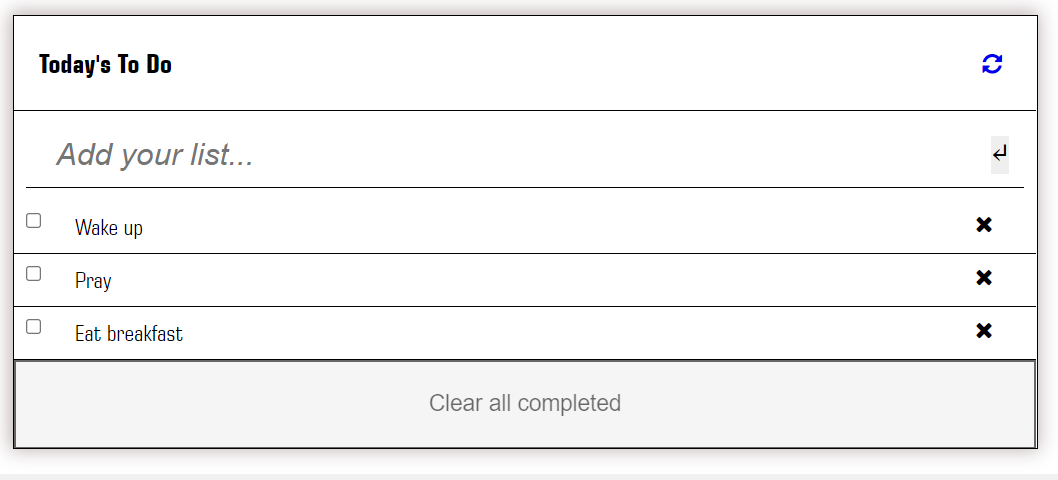
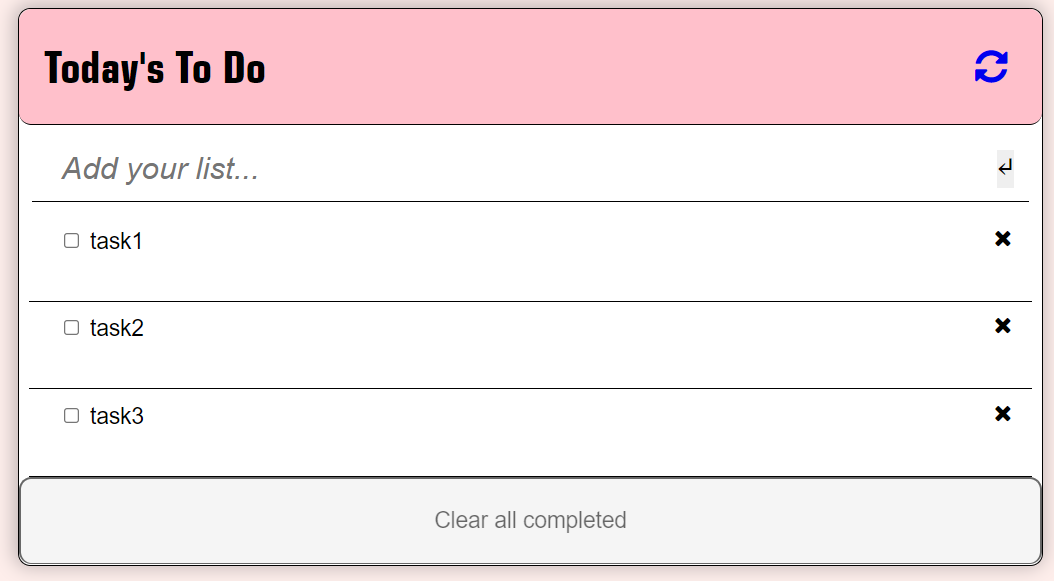
Edit index

diff --git a/src/index.js b/src/index.js
@@ -18,7 +18,7 @@ const getFromLocalStorage = () => {
 };
 
 const resetIndex = (tasks) => {
-  for (let i = 0; i < tasks.length; i += 1) {
+  for (let i = 1; i < tasks.length; i += 1) {
     let indx = i + 1;
     indx = i;
     tasks[i].index = indx;

diff --git a/src/style.css b/src/style.css
@@ -33,7 +33,7 @@ body {
   padding: 25px 20px;
   display: flex;
   justify-content: space-between;
-  background-color: rgb(11, 138, 106);
+  background-color: rgb(142, 236, 213);
   border-bottom: 1px solid #000;
 }
 
